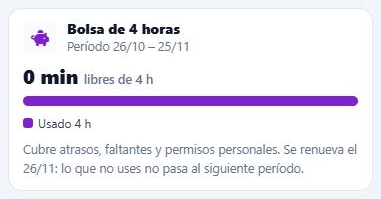
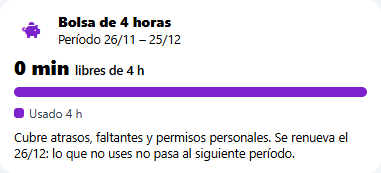
commit 255: guia de permisos 1.3 - capturas nuevas (plazo para responder, no valida, eliminar, cargo a vacaciones) y sin punto doble en el plazo del formulario

diff --git a/guias/permisos/guia-permisos.html b/guias/permisos/guia-permisos.html
@@ -310,9 +310,10 @@ button, .marco, .tab, .paso-btn { -webkit-tap-highlight-color: transparent; touc
    VERSION y FECHA, agrega una línea en CAMBIOS y vuelve a publicar.
    Las capturas viven en img/ (ver README.md en la misma carpeta).
    ===================================================================== */
-const VERSION = '1.2';
-const FECHA = '25/11/2026';
+const VERSION = '1.3';
+const FECHA = '26/11/2026';
 const CAMBIOS = [
+  ['26/11/2026', 'Capturas nuevas: formularios con el plazo para responder, solicitudes «No válida», eliminar desde el panel y lo cargado a vacaciones en «Mi tiempo de permisos».'],
   ['26/11/2026', 'Desde el 26/11, lo que supera la bolsa de 4 horas (atrasos, faltantes, faltas sin justificar) se descuenta de las vacaciones (8 h = 1 día); solo sin saldo de vacaciones va al rol.'],
   ['25/11/2026', 'Toda solicitud espera la aprobación del jefe; sin respuesta no es válida y no llega a TTHH. Permiso médico y calamidad también. El permiso personal es solo por horas.'],
   ['19/11/2026', 'Adaptada a teléfonos: texto a tamaño normal, tablas en tarjetas, botones Anterior/Siguiente siempre a mano y cambio de paso deslizando la captura.'],
@@ -346,7 +347,7 @@ const PASOS = {
     { t: 'Revisa tus vacaciones', img: '03-vacaciones.png', marco: 'recorte',
       h: '<p>La tarjeta <b>Vacaciones</b> muestra tu saldo en <b>días completos</b> y cuántos días se descontaron este año por permisos.</p><p>Cada 8 horas de permiso que la bolsa no alcanza a cubrir descuentan 1 día de vacaciones. El año de vacaciones va del 1 de diciembre al 30 de noviembre.</p><div class="nota info">Las fracciones (horas acumuladas hacia el próximo día) solo las ve el supervisor en el panel.</div>' },
     { t: 'Revisa el descuento al rol', img: '04-rol.png', marco: 'recorte',
-      h: '<p>La tarjeta <b>Descuento al rol</b> suma lo que ni la bolsa ni las vacaciones cubren en el período de nómina:</p><ul><li><b>Atrasos, faltantes y permisos</b> que ya superaron la bolsa.</li><li><b>Permisos que vienen</b> sin saldo (aprobados o por aprobar).</li></ul><p>En verde «Sin descuento» si no hay nada que descontar.</p>' },
+      h: '<p>La tarjeta <b>Descuento al rol</b> suma lo que ni la bolsa ni las vacaciones cubren en el período de nómina:</p><ul><li><b>Atrasos, faltantes y permisos</b> que ya superaron la bolsa y las vacaciones.</li><li><b>Permisos que vienen</b> sin saldo (aprobados o por aprobar).</li><li><b>Atrasos y faltantes cargados a vacaciones</b>: desde el 26/11/2026 lo que supera la bolsa se descuenta primero de tus vacaciones (8 h = 1 día).</li></ul><p>En verde «Sin descuento» si no hay nada que ir al rol. Lo del día se calcula en la noche: mientras tanto aparece «Por calcular».</p>' },
     { t: 'Nueva solicitud: elige el tipo', img: '05-form-tipo.png', marco: 'tel',
       h: '<p>Toca <span class="kbd">+ Nueva solicitud</span> y elige el tipo:</p><ul><li><span class="chip c-azul">Vacaciones</span> días completos, las aprueba tu jefe.</li><li><span class="chip c-violeta">Permiso personal</span> solo por horas, lo aprueba tu jefe.</li><li><span class="chip c-verde">Permiso médico</span> lo aprueba tu jefe; después, certificado en 72 h.</li><li><span class="chip c-rojo">Calamidad doméstica</span> puede pedirse después; la aprueba tu jefe y luego documentos en 72 h.</li></ul>' },
     { t: 'Vacaciones por días', img: '07-form-vacaciones.png', marco: 'tel',
@@ -373,7 +374,7 @@ const PASOS = {
       h: '<p>En el panel, sección <b>Permisos</b>, pestaña <span class="kbd">Solicitudes</span>. Los filtros:</p><ul><li><b>Pendientes</b>: esperan al jefe o a TTHH.</li><li><b>Documentos por validar</b>: médicos y calamidades con archivos subidos.</li><li><b>Vencidos</b>: pasaron las 72 h sin documentos.</li><li><b>Faltan documentos</b>: aún dentro del plazo.</li><li><b>Todas</b>, con buscador por nombre, ID, área o motivo.</li></ul>' },
     { t: 'Aprobar en lugar del jefe', img: '13-panel-pendientes.png', marco: 'web',
       h: '<p>Solo un <b>supervisor administrador</b> puede responder en lugar del jefe, con el botón <span class="kbd">Aprobar (en lugar del jefe)</span>.</p><p>TTHH no ve las solicitudes hasta que el jefe las aprueba; responde únicamente las de quien no tiene un jefe que pueda hacerlo.</p>' },
-    { t: 'Eliminar una solicitud', img: null, icono: '🗑',
+    { t: 'Eliminar una solicitud', img: '17-panel-eliminar.png', marco: 'web',
       h: '<p>Un <b>supervisor administrador</b> puede eliminar cualquier solicitud con <span class="kbd">Eliminar</span> y un motivo obligatorio (por ejemplo, duplicada o pedida por error).</p><ul><li>Deja de verse en la app y ya no es válida.</li><li>Si estaba aprobada, se borran sus registros de asistencia y las horas cargadas a vacaciones.</li><li>Se avisa al colaborador. Queda constancia en el filtro <b>Eliminadas</b>.</li></ul><div class="nota warn">No se puede deshacer.</div>' },
     { t: 'Pedir a nombre de alguien', img: '15-panel-a-nombre.png', marco: 'web',
       h: '<p>Con <span class="kbd">Pedir médico o calamidad</span> TTHH o un administrador pide un permiso médico o una calamidad a nombre de un colaborador que no puede hacerlo desde su teléfono.</p><p>También espera la aprobación del jefe; después corren las 72 horas para los documentos.</p>' },
@@ -479,6 +480,7 @@ const GALERIA_ESTADOS = `<section class="bloque"><h2>Cómo se ven las tarjetas</
   <p class="sub">Ejemplos reales de la ficha de prueba. Toca una para verla en grande.</p>
   <div class="galeria">
     <figure class="fig"><img src="img/21-tarjeta-no-aprobada.png" data-zoom="img/21-tarjeta-no-aprobada.png" alt="Tarjeta de permiso no aprobado"><figcaption><b>No aprobada.</b> Muestra el cargo aceptado, quién la rechazó y su motivo.</figcaption></figure>
+    <figure class="fig"><img src="img/24-tarjeta-no-valida.png" data-zoom="img/24-tarjeta-no-valida.png" alt="Tarjeta de solicitud no válida"><figcaption><b>No válida.</b> Nadie la aprobó ni rechazó antes de la hora del permiso: no justifica el tiempo y no llegó a TTHH.</figcaption></figure>
     <figure class="fig"><img src="img/23-tarjeta-validado.png" data-zoom="img/23-tarjeta-validado.png" alt="Tarjeta con documentos validados"><figcaption><b>Documentos validados.</b> El certificado quedó aceptado por TTHH.</figcaption></figure>
     <figure class="fig"><img src="img/22-tarjeta-descontado.png" data-zoom="img/22-tarjeta-descontado.png" alt="Tarjeta descontada del rol"><figcaption><b>Descontado del rol.</b> Venció el plazo de 72 h sin documentos.</figcaption></figure>
     <figure class="fig"><img src="img/20-tarjeta-medico-cancelada.png" data-zoom="img/20-tarjeta-medico-cancelada.png" alt="Tarjeta cancelada"><figcaption><b>Cancelada.</b> Creada al marcar la entrada y cancelada después.</figcaption></figure>

diff --git a/JS/permisos.js b/JS/permisos.js
@@ -1279,7 +1279,7 @@
           : `<div><i class="fas fa-users"></i> La aprueba <strong>TTHH</strong>: ${esc((MOTIVO_TTHH[st.aprob.motivo] || '').toLowerCase())}. Hasta que la apruebe no es válida.</div>`);
         if (fechas.length && !horaPasada()) {
           const cad = caducidad({ tipo: st.tipo, modalidad: st.modalidad, desde, fechas, hora_desde: $('pmHoraDesde').value }, new Date());
-          partes.push(`<div><i class="fas fa-hourglass-half"></i> Plazo para responder: <strong>${esc(horaIso(cad.toISOString()))}</strong>. Sin respuesta, la solicitud no es válida.</div>`);
+          partes.push(`<div><i class="fas fa-hourglass-half"></i> Plazo para responder: <strong>${esc(horaIso(cad.toISOString()))}</strong> · sin respuesta, la solicitud no es válida.</div>`);
         }
         if (T.documentos) partes.push('<div><i class="fas fa-file-medical"></i> Al aprobarse hay 72 horas para entregar los documentos a TTHH; sin ellos se descuenta del rol.</div>');
       }

diff --git a/index.html b/index.html
@@ -279,7 +279,7 @@
     <script src="./JS/notificaciones.js?v=20261117_p5"></script>
     <script src="./JS/visitas_anfitrion.js?v=20261119_01"></script>
     <script src="./JS/reglas_jornada.js?v=20261125_vac1"></script>
-    <script src="./JS/permisos.js?v=20261125_vac1"></script>
+    <script src="./JS/permisos.js?v=20261126_guia1"></script>
     <script src="./JS/sugerencias.js?v=20261119_01"></script>
     <script src="https://cdnjs.cloudflare.com/ajax/libs/qrcode-generator/1.4.4/qrcode.min.js"></script>
     <script src="./JS/credencial_campo.js?v=20261020_07"></script>

diff --git a/supervisor.html b/supervisor.html
@@ -5372,7 +5372,7 @@
   <script src="./JS/evaluacion_desempeno.js?v=20261125_02"></script>
   <script src="./JS/notificaciones.js?v=20261112_01"></script>
   <script src="./JS/visitas_anfitrion.js?v=20261119_01"></script>
-  <script src="./JS/permisos.js?v=20261125_vac1"></script>
+  <script src="./JS/permisos.js?v=20261126_guia1"></script>
   <script src="./JS/sugerencias.js?v=20261119_01"></script>
   <script src="./JS/supervisor/supervisor_directorio.js?v=20261111_01"></script>
   <script src="./JS/supervisor/supervisor_registro.js?v=20261112_01"></script>
